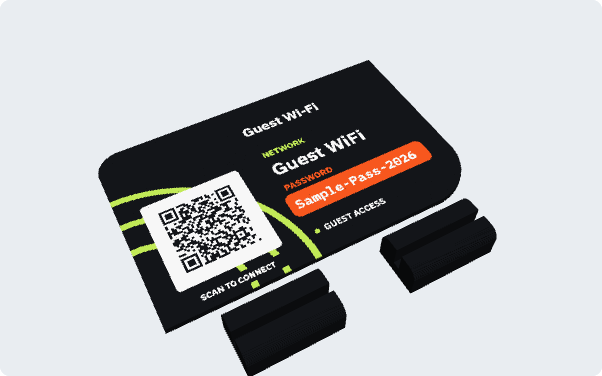
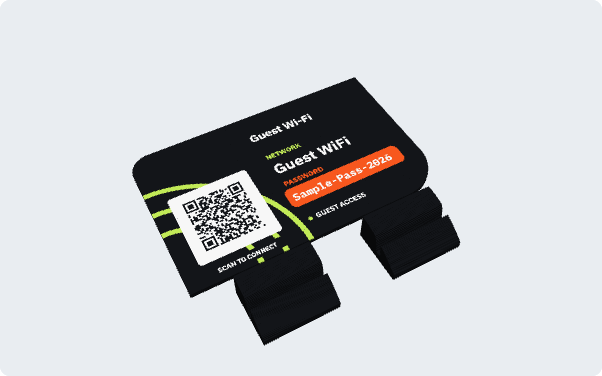
Redesign stand as a ramp with a tilted, flared slot

Changed region(s): [[0.1495, 0.1463, 0.8372, 1.0]]

diff --git a/index.html b/index.html
@@ -610,8 +610,9 @@ footer{grid-column:1/-1;font-size:.8rem;color:var(--muted);text-align:center}
     if(!V3.card)return;
     const tr=(p,f)=>{const v=[];for(let i=0;i<p.verts.length;i+=3)v.push(...f(p.verts[i],p.verts[i+1],p.verts[i+2]));return {...p,verts:v};};
     const asm=document.querySelector('input[name=v3mode]:checked').value==="assembled",st=V3.stand,xs=asm?[22,78]:[20,90];
-    const card=asm?V3.card.map(p=>tr(p,(x,y,z)=>[x,11+V3.T/2-z,5+y])):V3.card;
-    const clips=xs.map(x=>tr(st,(a,b,c)=>[a+x,asm?b:b-30,c]));
+    const {ub,vb,th}=STAND,sn=Math.sin(th),cs=Math.cos(th),
+      card=asm?V3.card.map(p=>tr(p,(x,y,z)=>{const n=V3.T/2-z;return [x,ub+y*sn+n*cs,vb+y*cs-n*sn];})):V3.card;
+    const clips=xs.map(x=>tr(st,(a,b,c)=>[a+x,asm?b:b-STAND.D-8,c]));
     $("v3note").textContent=(asm?"組み立て: カードをスタンド2個の溝に差した状態。":"書き出し形状: 3MF/STL のカードと、スタンドSTL（2個）をそのまま並べています。")+"ドラッグで回転、ホイールで拡大・縮小";
     v3set(card.concat(clips),colors());
   }
@@ -637,7 +638,7 @@ footer{grid-column:1/-1;font-size:.8rem;color:var(--muted);text-align:center}
     if(!w||!h)return;
     if(cv.width!==w||cv.height!==h){cv.width=w;cv.height=h;}
     gl.viewport(0,0,w,h);gl.clearColor(.914,.929,.945,1);gl.clear(gl.COLOR_BUFFER_BIT|gl.DEPTH_BUFFER_BIT);
-    const d=V3.r*2.6*V3.zoom,cp=Math.cos(V3.pitch),c=V3.c,eye=[c[0]+d*cp*Math.sin(V3.yaw),c[1]-d*cp*Math.cos(V3.yaw),c[2]+d*Math.sin(V3.pitch)];
+    const d=V3.r*3.1*V3.zoom,cp=Math.cos(V3.pitch),c=V3.c,eye=[c[0]+d*cp*Math.sin(V3.yaw),c[1]-d*cp*Math.cos(V3.yaw),c[2]+d*Math.sin(V3.pitch)];
     const f=v3norm(v3sub(c,eye)),s=v3norm(v3cross(f,[0,0,1])),u=v3cross(s,f);
     const view=[s[0],u[0],-f[0],0,s[1],u[1],-f[1],0,s[2],u[2],-f[2],0,-v3dot(s,eye),-v3dot(u,eye),v3dot(f,eye),1];
     const N=V3.r*.1,F=V3.r*20,k=1/Math.tan(.31),a=w/h;
@@ -655,13 +656,15 @@ footer{grid-column:1/-1;font-size:.8rem;color:var(--muted);text-align:center}
   v3init();addEventListener("resize",v3draw);
   document.querySelectorAll("input[name=v3mode]").forEach(e=>e.onchange=v3scene);
 
+  // スタンド断面（u=奥行, v=高さ）。前が低く後ろが高いスロープに、後ろへ th だけ傾けた溝を切る。これを Lx だけ押し出す
+  const STAND={D:30,Hs:16,vb:4,ub:14,th:10*Math.PI/180,Lx:40};
   function standPart(o,single){
-    const thick=(o.finish==="flat"?o.T:o.T+o.h)+0.4,D=22,Hs=14,depth=9,Lx=40,res=o.res;
-    const w=Math.round(D*res),h=Math.round(Hs*res),top=new Float32Array(w*h);
+    const {D,Hs,vb,ub,th,Lx}=STAND,thick=(o.finish==="flat"?o.T:o.T+o.h)+0.4,res=o.res;
+    const w=Math.round(D*res),h=Math.round(Hs*res),top=new Float32Array(w*h),sn=Math.sin(th),cs=Math.cos(th);
     for(let j=0;j<h;j++)for(let i=0;i<w;i++){
-      const u=(i+.5)/res,v=(h-j-.5)/res;
-      const rc=5,cu=u<rc?rc:u>D-rc?D-rc:u,out=v>Hs-rc&&(u<rc||u>D-rc)&&Math.hypot(u-cu,v-(Hs-rc))>rc;
-      if(!out&&!(Math.abs(u-D/2)<thick/2&&v>Hs-depth))top[j*w+i]=Lx;
+      const u=(i+.5)/res,v=(h-j-.5)/res,vt=Hs-12*((D-u)/D)**2;
+      const flare=Math.max(0,v-(vt-2.5))*.35,slot=v>vb&&Math.abs((u-ub)*cs-(v-vb)*sn)<thick/2+flare;
+      if(v<vt&&!slot)top[j*w+i]=Lx;
     }
     const a=meshHF(w,h,res,top,0,(u,v,z)=>[z,u,v]),b=meshHF(w,h,res,top,0,(u,v,z)=>[z,u+D+6,v]),off=a.verts.length/3;
     if(single)return [{key:"stand",ckey:"base",fil:1,...a}];

diff --git a/README.md b/README.md
@@ -52,7 +52,7 @@ A WebGL viewer (no dependencies) shows the exported meshes in color, either asse
 | 3MF (multi-color) | Multi-color printers (AMS, MMU, etc.). Contains one part per color, with filament assignments. |
 | Per-color STL (ZIP) | Slicers that don't split 3MF parts. Load all files together as one object with several parts. |
 | Color-change STL | Single-nozzle printers. One mesh, with a filament change at a set height. |
-| Stand STL | Two clips that hold the card upright, with rounded top edges. |
+| Stand STL | Two ramp-shaped clips that hold the card upright, leaning back about 10°. The slot has a flared mouth for easy insertion. |
 
 Finish options:
 
